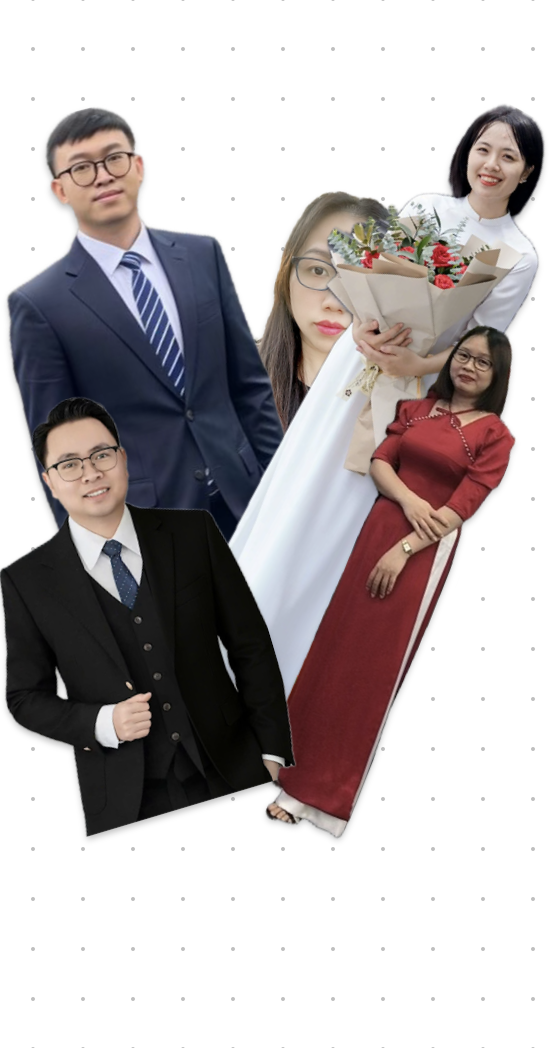
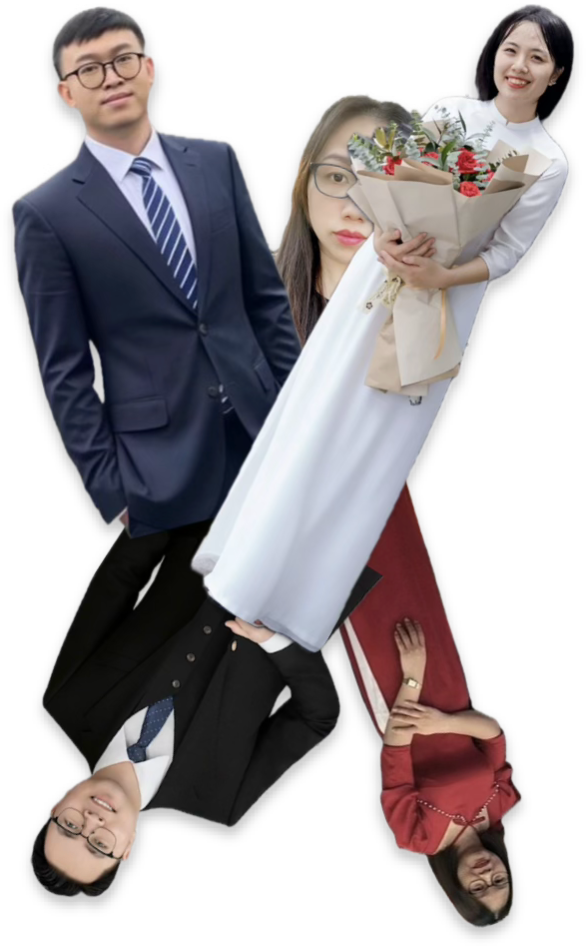
update

diff --git a/style.css b/style.css
@@ -620,12 +620,12 @@ footer p {
 
 .image-container-coreTeam {
   position: relative;
-  width: 300px;
-  height: 400px;
+  width: 350px;
+  height: 466px;
   overflow: hidden;
   transform: translateX(100px);
   left: 50%;
-  margin-top: 125px;
+  margin-top: 225px;
   margin-left: 175px;
   margin-bottom: 55px;
   background: transparent;
@@ -635,6 +635,7 @@ footer p {
 
 .profile-photo-coreTeam {
   position: absolute;
+  transform: translateX(30px);
   width: 300px;
   height: auto;
   z-index: 3;
@@ -647,11 +648,9 @@ footer p {
   margin: 30px auto;
   margin-left: 200px;
   margin-right: 150px;
-  margin-top: 125px;
+  margin-top: 100px;
   padding: 10px;
   background: transparent;
-  border-radius: 50px;
-  box-shadow: 0 0 10px 0 rgba(0, 0, 0, 0.5);
   backdrop-filter: none;
   z-index: 2;
 }
@@ -750,18 +749,38 @@ footer p {
 
 .deco-object {
   position: relative;
-  width: 75px;
+  width: 95px;
   height: auto;
   margin: 20px;
   z-index: 15;
 }
 /* Decorative objects */
-.deco-object1 { top: 250px; left: 72rem; }
+.deco-object1 { top: 250px; left: 72rem; transform: rotate(10deg);}
 .deco-object2 { top: 50px; left: 120px; }
-.deco-object3 { top: 250px; right: -435px; }
+.deco-object3 { top: 600px; right: -500px; }
 .deco-object4 { bottom: 60px; left: 80px; }
 .deco-object5 { bottom: 20px; right: 30px; }
 .deco-object6 { top: 650px; right: -100px; }
+
+.download-btn {
+  display: inline-block;
+  padding: 12px 24px;
+  font-size: 1rem;
+  font-weight: 600;
+  color: white;
+  background: linear-gradient(to right, #4CAF50, #2E7D32);
+  border: none;
+  border-radius: 24px;
+  transform: translate(270px, 50px);
+  text-decoration: none;
+  cursor: pointer;
+  transition: background 0.3s ease;
+}
+
+.download-btn:hover {
+  background: linear-gradient(to right, #460000, #388E3C);
+}
+
 
 @media (max-width: 768px) {
   /* Adjust main layout padding */

diff --git a/coreTeam.html b/coreTeam.html
@@ -15,11 +15,9 @@
         <img src="public/decoObjects/deco-bg3.jpg" class="deco-bg deco-bg3"/>
         <img src="public/decoObjects/deco-bg4.jpg" class="deco-bg deco-bg4"/>
         <img src="public/decoObjects/deco-bg5.jpg" class="deco-bg deco-bg5"/>
-        <img src="public/decoObjects/decoObject1.png" class="deco-object deco-object1"/>
-        <img src="public/decoObjects/decoObject2.png" class="deco-object deco-object2"/>
-        <img src="public/decoObjects/decoObject3.png" class="deco-object deco-object3"/>
-        <img src="public/decoObjects/decoObject5.png" class="deco-object deco-object5"/>
-        <img src="public/decoObjects/decoObject6.png" class="deco-object deco-object6"/>
+        
+        
+       
     </div>
     <div class="video-background" id="video-bg-container">
     <video class="video-bg" autoplay muted loop playsinline>
@@ -42,7 +40,9 @@
                 <span class="intro-core"></span> 
             </div>
         </div>
-        
+        <a href="public/files/example.pdf" download class="download-btn">
+            Download Profile ⇲
+          </a>
     </div>
 
     <div id="prev-btn" class="arrow-symbol left-arrow-symbol">
